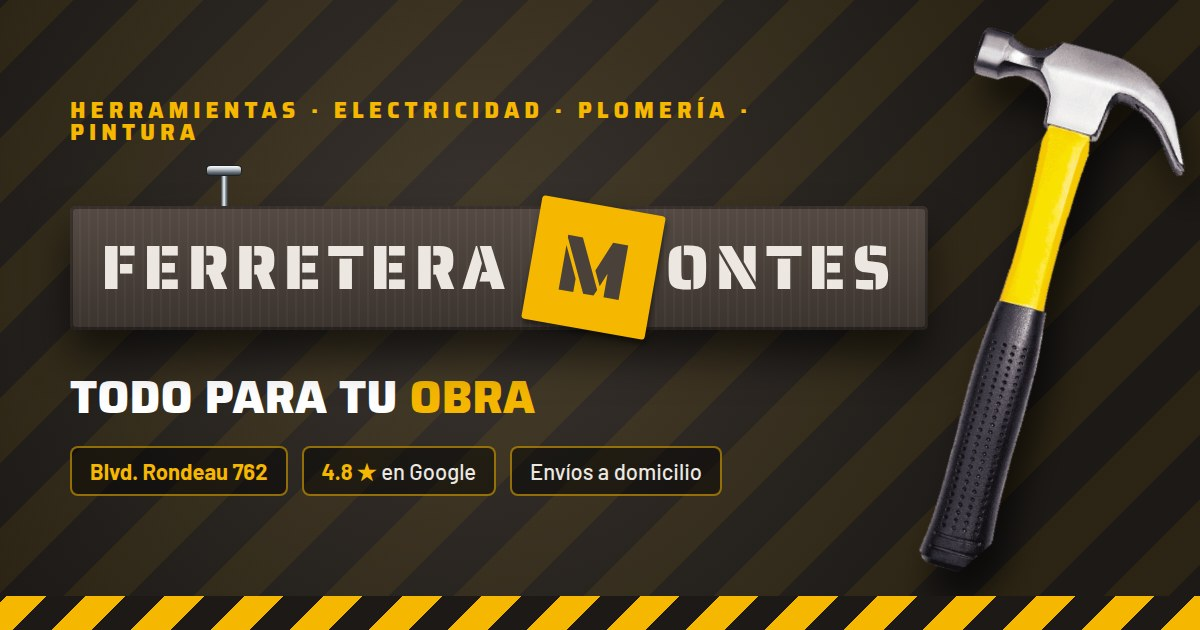
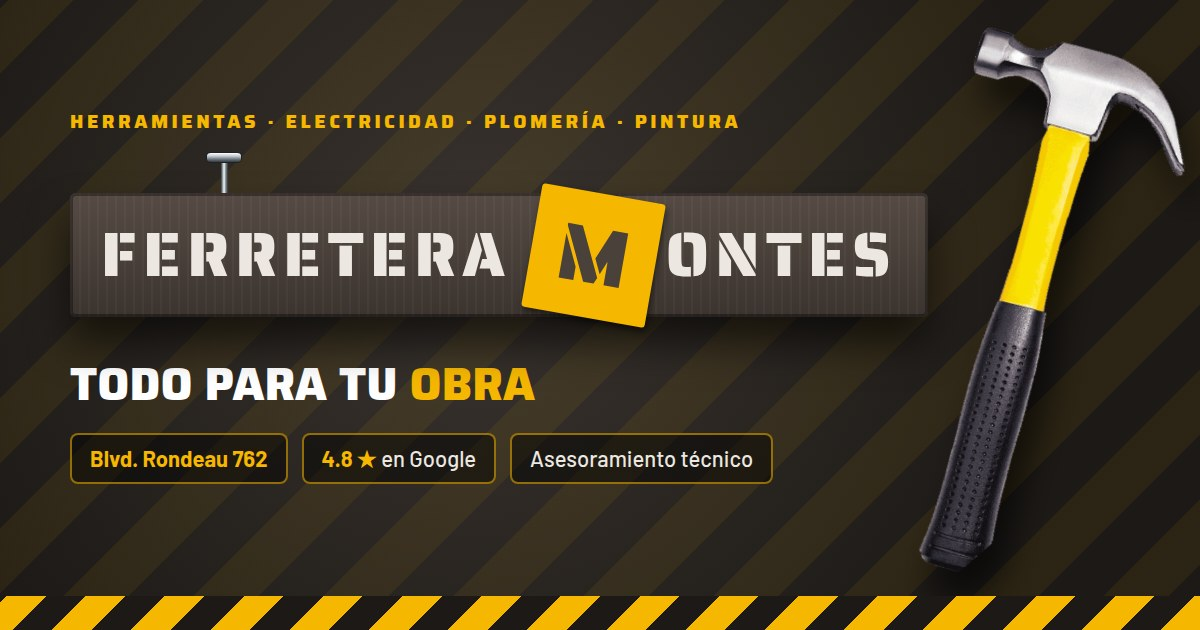
Saca la entrega a domicilio de toda la web
- Servicios: 'Entrega a domicilio' pasa a 'Consultas por WhatsApp'
- Nosotros: tercer punto 'Todo en un lugar'; pantalla del hero: 'Asesoramiento'
- Chat sin la opción ni las respuestas de envíos
- Meta descripción e imagen para compartir actualizadas (subtítulo en una línea)

Claude-Session: https://claude.ai/code/session_01L1cMxpHTkknPUPW2gdzNd6

Changed region(s): [[0.0617, 0.2413, 0.7708, 0.5429], [0.0617, 0.573, 0.6475, 0.8143], [0.0617, 0.1508, 0.6167, 0.2413]]

diff --git a/index.html b/index.html
@@ -7,13 +7,13 @@
 <link rel="icon" href="favicon.svg" type="image/svg+xml">
 <link rel="apple-touch-icon" href="apple-touch-icon.png">
 <meta name="theme-color" content="#1c1916">
-<meta name="description" content="Ferretera Montes · Blvd. Rondeau 762, Rosario. Herramientas, bulonería, electricidad, plomería y pintura. Asesoramiento técnico y entregas a domicilio.">
+<meta name="description" content="Ferretera Montes · Blvd. Rondeau 762, Rosario. Herramientas, bulonería, electricidad, plomería y pintura. Asesoramiento técnico y atención personalizada.">
 <!-- Vista previa al compartir el link (WhatsApp, Facebook, Instagram, X). La imagen tiene que ir con URL completa. -->
 <meta property="og:type" content="website">
 <meta property="og:locale" content="es_AR">
 <meta property="og:site_name" content="Ferretera Montes">
 <meta property="og:title" content="Ferretera Montes · Todo para tu obra">
-<meta property="og:description" content="Ferretera Montes · Blvd. Rondeau 762, Rosario. Herramientas, bulonería, electricidad, plomería y pintura. Asesoramiento técnico y entregas a domicilio.">
+<meta property="og:description" content="Ferretera Montes · Blvd. Rondeau 762, Rosario. Herramientas, bulonería, electricidad, plomería y pintura. Asesoramiento técnico y atención personalizada.">
 <meta property="og:url" content="https://ferreteria-montes.vercel.app/">
 <meta property="og:image" content="https://ferreteria-montes.vercel.app/og-image.jpg">
 <meta property="og:image:width" content="1200">
@@ -400,7 +400,7 @@
         <h2 id="detrasTitulo">Estamos abiertos</h2>
         <div class="stats">
           <div><b>4.8 ★</b>58 reseñas en Google</div>
-          <div><b>Envíos</b>entrega a domicilio</div>
+          <div><b>Asesoramiento</b>técnico en cada consulta</div>
           <div><b>Rondeau 762</b>Rosario, Santa Fe</div>
         </div>
         <a href="#rubros" class="btn">Ver rubros ↓</a>
@@ -474,7 +474,7 @@
     <div class="etiqueta">Además</div>
     <h2>Servicios</h2>
     <div class="grilla dos">
-      <div class="card revelar"><div class="icono"><svg viewBox="0 0 24 24" aria-hidden="true"><path d="M14 18V6a2 2 0 0 0-2-2H4a2 2 0 0 0-2 2v11a1 1 0 0 0 1 1h2"/><path d="M15 18H9"/><path d="M19 18h2a1 1 0 0 0 1-1v-3.7a1 1 0 0 0-.2-.6l-3.5-4.3A1 1 0 0 0 17.5 8H14"/><circle cx="17" cy="18" r="2"/><circle cx="7" cy="18" r="2"/></svg></div><h3>Entrega a domicilio</h3><p>Coordinamos el envío de tu pedido por WhatsApp o teléfono.</p></div>
+      <div class="card revelar"><div class="icono"><svg viewBox="0 0 24 24" aria-hidden="true"><path d="M21 15a2 2 0 0 1-2 2H7l-4 4V5a2 2 0 0 1 2-2h14a2 2 0 0 1 2 2z"/><path d="M8 9h8M8 13h5"/></svg></div><h3>Consultas por WhatsApp</h3><p>Consultá stock y precios antes de venir al local.</p></div>
       <div class="card revelar"><div class="icono"><svg viewBox="0 0 24 24" aria-hidden="true"><path d="M7.9 20A9 9 0 1 0 4 16.1L2 22z"/><path d="M9.1 9a3 3 0 0 1 5.8 1c0 2-3 2.5-3 4"/><path d="M12 17h.01"/></svg></div><h3>Asesoramiento</h3><p>Traé la pieza o una foto y te indicamos el repuesto correcto.</p></div>
     </div>
   </div>
@@ -490,7 +490,7 @@
       <ul class="valores">
         <li><b>Asesoramiento técnico</b>Te ayudamos a elegir el producto correcto para cada trabajo.</li>
         <li><b>Atención personalizada</b>Respondemos tus consultas en el local o por WhatsApp.</li>
-        <li><b>Entrega a domicilio</b>Coordinamos el envío de tu pedido.</li>
+        <li><b>Todo en un lugar</b>Herramientas, bulonería, electricidad, plomería y pintura.</li>
       </ul>
     </div>
     <figure class="frente revelar">
@@ -677,7 +677,6 @@
     'Busco un producto': () => { esperandoProducto = true; responder('Contanos qué necesitás (por ejemplo: "tarugos del 8" o "llave térmica 20A") y te confirmamos disponibilidad y precio.'); },
     'Horarios': () => responder(`Lunes a viernes: 8:30 a 13 y 16:30 a 18:30\nSábado: 9 a 13\nDomingo: cerrado\n\nAhora: ${document.querySelector('[data-estado]').textContent}.`),
     'Dirección': () => responder('Estamos en Blvd. Rondeau 762, Rosario.\nEn la sección Contacto tenés el mapa y el botón "Cómo llegar".'),
-    'Envíos': () => responder('Sí, realizamos entregas a domicilio. Consultanos zona y costo por WhatsApp.', 'Hola, quería consultar por un envío a domicilio.'),
     'Hablar con un asesor': () => responder('Te comunicamos con nuestro equipo por WhatsApp.', 'Hola, quería hacer una consulta.'),
   };
   function mostrarOpciones() {
@@ -698,7 +697,6 @@
     if (/\b(tienen|tenes|hay|venden|precio|cuesta|sale|stock)\b/.test(t))
       return responder('Te confirmamos disponibilidad y precio por WhatsApp, con tu consulta ya escrita.', `Hola, quería consultar: ${texto}`);
     if (/donde|direcc|ubicac|llegar|queda/.test(t)) return OPCIONES['Dirección']();
-    if (/envio|domicilio|delivery|mandan|llevan/.test(t)) return OPCIONES['Envíos']();
     if (/^(hola|buenas|buen dia|buenos dias|buenas tardes|buenas noches)[\s!.,]*$/.test(t))
       return responder('¡Hola! ¿En qué te puedo ayudar? Elegí una opción o escribí tu consulta.');
     responder('Para esa consulta te comunicamos con nuestro equipo por WhatsApp, con tu mensaje ya escrito.',
@@ -732,7 +730,7 @@
     ajustarChat();
     if (abrir && !iniciado) {
       iniciado = true;
-      agregar('¡Hola! Soy el asistente virtual de Ferretera Montes. Puedo ayudarte con horarios, dirección y envíos; para productos, precios o stock te comunicamos con nuestro equipo por WhatsApp.', 'bot');
+      agregar('¡Hola! Soy el asistente virtual de Ferretera Montes. Puedo ayudarte con horarios y dirección; para productos, precios o stock te comunicamos con nuestro equipo por WhatsApp.', 'bot');
       mostrarOpciones();
     }
     // Solo con mouse se pone el cursor en el campo: en celular abriría el teclado de golpe

diff --git a/assets-fuente/og-image.html b/assets-fuente/og-image.html
@@ -9,7 +9,7 @@
   .cinta { position: absolute; left: 0; right: 0; bottom: 0; height: 34px;
     background: repeating-linear-gradient(-45deg, #f5b700 0 28px, #1c1916 28px 56px); }
   .contenido { position: absolute; left: 70px; top: 0; bottom: 34px; width: 780px; display: flex; flex-direction: column; justify-content: center; }
-  .pre { color: #f5b700; font: 800 22px/1 Saira, sans-serif; letter-spacing: 5px; margin-bottom: 62px; }
+  .pre { color: #f5b700; font: 800 19px/1 Saira, sans-serif; letter-spacing: 3.5px; white-space: nowrap; margin-bottom: 62px; }
   .cartel { position: relative; align-self: flex-start; display: inline-flex; align-items: center;
     font: 400 62px/1 "Saira Stencil One", sans-serif; letter-spacing: .1em; color: #ece8e1; padding: .38em .5em;
     border-radius: 6px; background: repeating-linear-gradient(90deg, rgba(255,255,255,.03) 0 2px, transparent 2px 9px), linear-gradient(180deg, #564b44, #4a413b 45%, #3b332e);
@@ -36,7 +36,7 @@
     <div class="datos">
       <div><b>Blvd. Rondeau 762</b></div>
       <div><b>4.8 ★</b> en Google</div>
-      <div>Envíos a domicilio</div>
+      <div>Asesoramiento técnico</div>
     </div>
   </div>
   <div class="cinta"></div>
